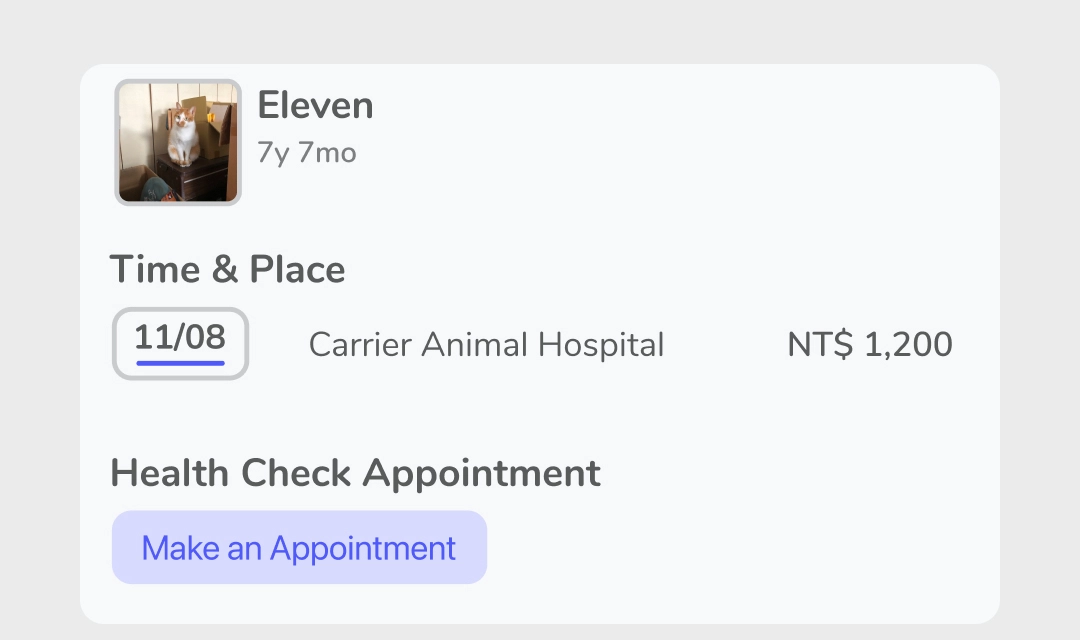
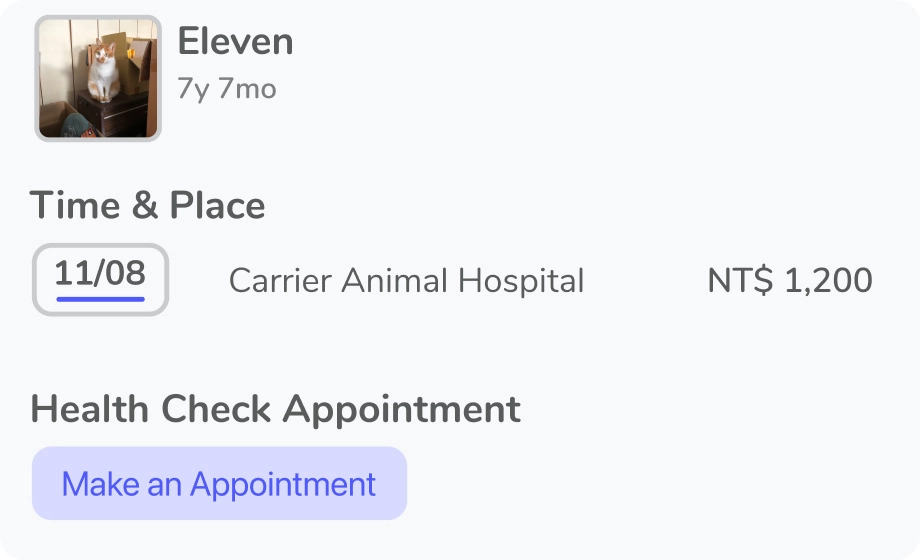
Update external link for Carrier Express

diff --git a/projects/carrier/Content.tsx b/projects/carrier/Content.tsx
@@ -38,7 +38,10 @@ const PrototypeList = styled('ul', {
 
 const PrototypeLink = styled('a', {
   display: 'block',
-  position: 'relative'
+  position: 'relative',
+  padding: '$16',
+  backgroundColor: 'hsl($shade1500)',
+  borderRadius: '24px'
 });
 
 const PrototypeAppointCover = styled('figure', {
@@ -135,7 +138,7 @@ export default function Content() {
             <ListItem nomark>
               <ContentTitle purpose="paragraph" dangerouslySetInnerHTML={{__html: t('prototype.appoint.title')}} />
               <Link href="https://www.figma.com/proto/L60FGYm0zgyJNTPHF64lEn/carrier-express?page-id=247%3A286&node-id=551%3A1280&viewport=295%2C48%2C0.63&scaling=scale-down&starting-point-node-id=551%3A1280&show-proto-sidebar=1" passHref>
-                <PrototypeLink>
+                <PrototypeLink target="_blank" rel="noopener">
                   <PrototypeAppointCover>
                     <PrototypeAppointCoverImg src={prototypeAppointPreview} layout="responsive" alt={t('prototype.appoint.alt')} />
                   </PrototypeAppointCover>

diff --git a/elements/IconArrow.tsx b/elements/IconArrow.tsx
@@ -15,7 +15,7 @@ const Icon = styled(Svg, {
       prototype: {
         position: 'absolute',
         top: '$12',
-        right: '$16'
+        right: '$12'
       }
     }
   }
